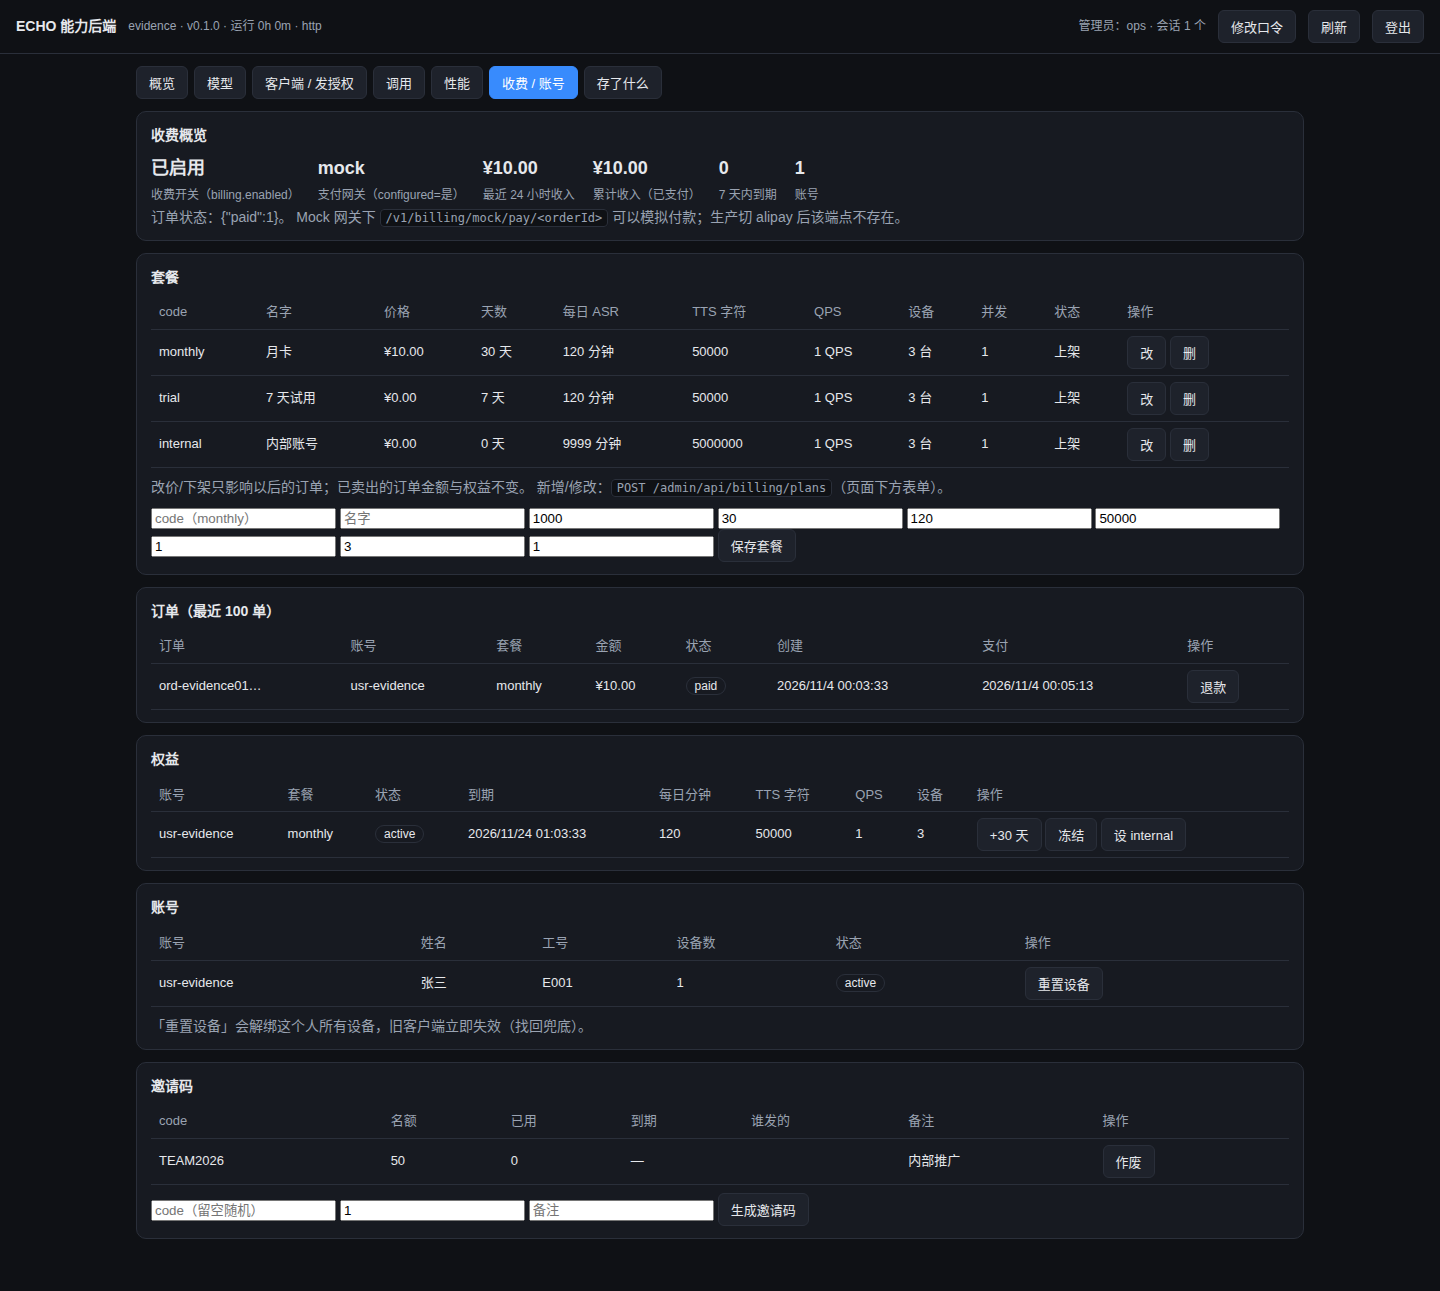
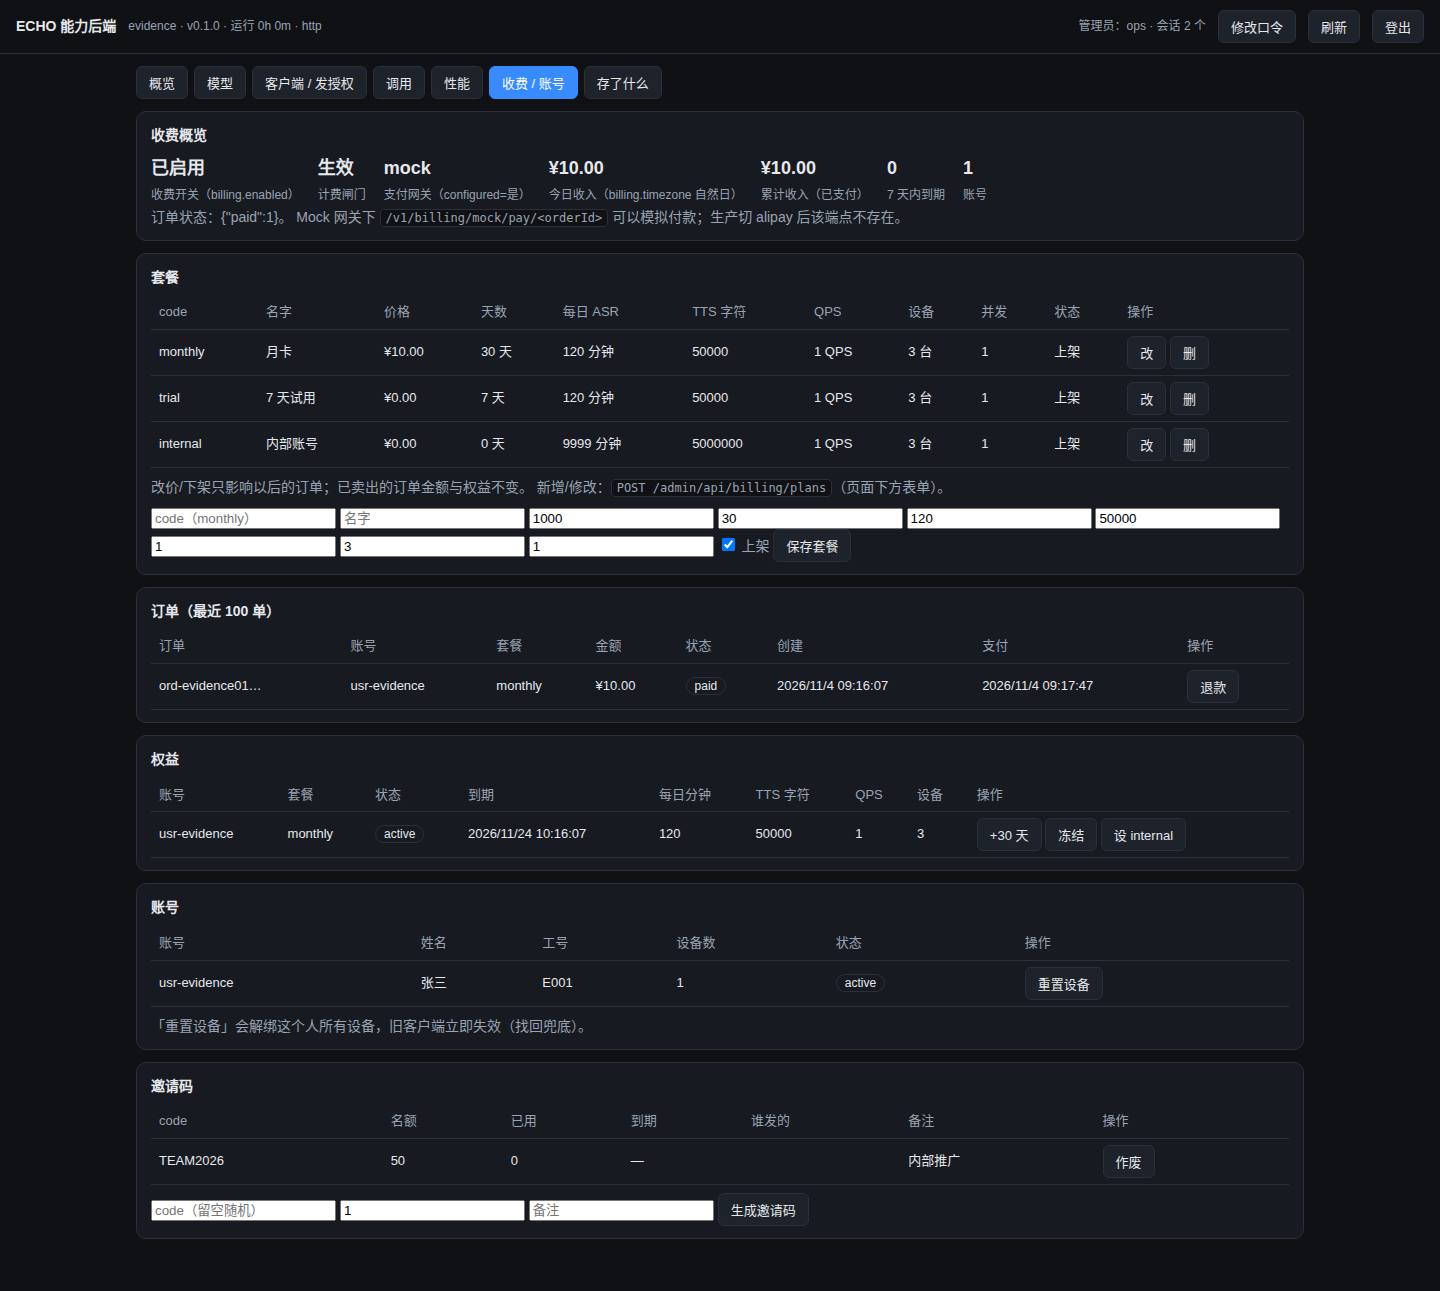
docs: refresh admin billing evidence after review fixes
- recapture After screenshots at review-fixed head
- label revenue as timezone natural day

diff --git a/server/admin.html b/server/admin.html
@@ -1073,7 +1073,7 @@ async function viewBilling() {
       <div><b>${d.enabled ? "已启用" : "未启用"}</b><span>收费开关（billing.enabled）</span></div>
       <div><b>${d.effectiveGating ? "生效" : "未生效"}</b><span>计费闸门${d.effectiveGating ? "" : "（auth.enabled=false，请求会走免费老路）"}</span></div>
       <div><b>${esc(d.provider)}</b><span>支付网关（configured=${d.gatewayConfigured ? "是" : "否"}）</span></div>
-      <div><b>${money(d.revenueCentsToday)}</b><span>最近 24 小时收入</span></div>
+      <div><b>${money(d.revenueCentsToday)}</b><span>今日收入（billing.timezone 自然日）</span></div>
       <div><b>${money(d.revenueCentsTotal)}</b><span>累计收入（已支付）</span></div>
       <div><b>${d.expiringIn7Days}</b><span>7 天内到期</span></div>
       <div><b>${d.users}</b><span>账号</span></div>

diff --git a/docs/billing-evidence/README.md b/docs/billing-evidence/README.md
@@ -13,7 +13,7 @@
 | 引擎 | 假引擎（只为起 app，不加载模型） |
 | 页面 | `http://127.0.0.1:<admin>/admin/`，登录后停在「概览」 |
 | Baseline | `origin/main` @ `1b55158`（release v3.0.1，本 PR 的 base） |
-| After | 本 PR 分支（含本次 T1–T8 改动） |
+| After | 本 PR 分支 review 修复后（2026-11-04 重采；含 `effectiveGating`、套餐 `active` 勾选、退款/权益 confirm 文案；具体 head 见 PR 描述） |
 
 Before 与 After 的 **overview 截图是同一场景**（同样的 server id / 空数据 / 视口 / 主题），
 唯一差别是 After 的页签栏多了「收费 / 账号」。After 的 `billing` 截图展示新页签的实际内容
